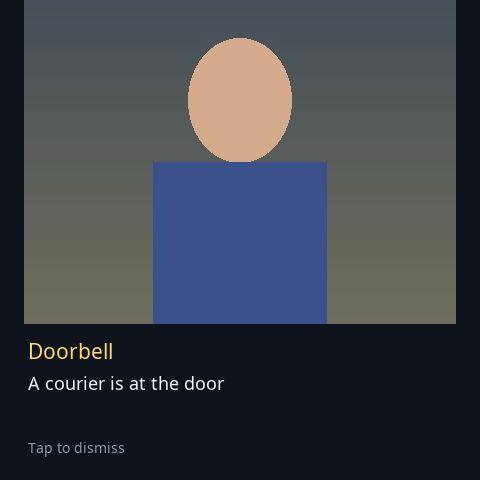
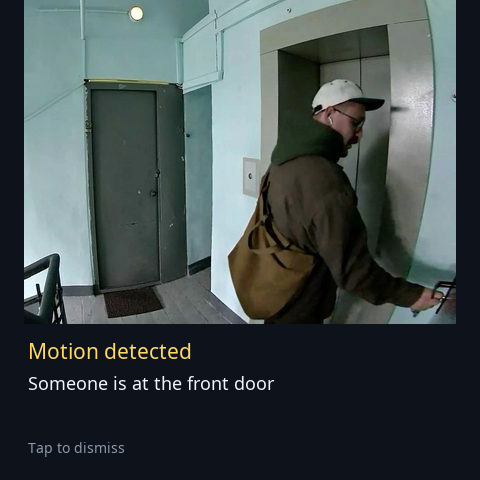
S1E Panel: documentation and interactive demo

diff --git a/docs/ru/index.html b/docs/ru/index.html
@@ -114,7 +114,7 @@ footer{margin:72px 0 32px;color:var(--muted);font-size:14px;border-top:1px solid
   <div class="shots">
     <figure><img src="../assets/ru/saver-rain.gif" width="480" height="480" loading="lazy" alt="Заставка «Живая погода» с анимированным дождём"><figcaption>Заставка «Живая погода»</figcaption></figure>
     <figure><img src="../assets/ru/screen-saver-pulse.png" width="480" height="480" loading="lazy" alt="Заставка «Пульс дома» с шестью показателями"><figcaption>«Пульс дома»</figcaption></figure>
-    <figure><img src="../assets/ru/screen-notification-photo.png" width="480" height="480" loading="lazy" alt="Уведомление о звонке в дверь со снимком камеры"><figcaption>Снимок с дверной камеры из Home Assistant</figcaption></figure>
+    <figure><img src="../assets/ru/screen-notification-photo.png" width="480" height="480" loading="lazy" alt="Уведомление о движении со снимком дверной камеры"><figcaption>Снимок с дверной камеры из Home Assistant</figcaption></figure>
     <figure><img src="../assets/ru/screen-notification-weather.png" width="480" height="480" loading="lazy" alt="Сообщение «Спокойной ночи» с дождливой погодой на завтра"><figcaption>Погодное сообщение</figcaption></figure>
   </div>
 </section>

diff --git a/docs/index.html b/docs/index.html
@@ -113,7 +113,7 @@ footer{margin:72px 0 32px;color:var(--muted);font-size:14px;border-top:1px solid
   <div class="shots">
     <figure><img src="assets/en/saver-rain.gif" width="480" height="480" loading="lazy" alt="Living weather screensaver with animated rain"><figcaption>Living weather screensaver</figcaption></figure>
     <figure><img src="assets/en/screen-saver-pulse.png" width="480" height="480" loading="lazy" alt="Home essentials screensaver with six home readings"><figcaption>Home essentials</figcaption></figure>
-    <figure><img src="assets/en/screen-notification-photo.png" width="480" height="480" loading="lazy" alt="Doorbell notification with a camera photo"><figcaption>Doorbell photo from Home Assistant</figcaption></figure>
+    <figure><img src="assets/en/screen-notification-photo.png" width="480" height="480" loading="lazy" alt="Motion notification with a door camera photo"><figcaption>Door camera photo from Home Assistant</figcaption></figure>
     <figure><img src="assets/en/screen-notification-weather.png" width="480" height="480" loading="lazy" alt="Good night message with tomorrow's rainy weather"><figcaption>Weather message</figcaption></figure>
   </div>
 </section>

diff --git a/README.md b/README.md
@@ -48,7 +48,7 @@ More about the demos and their limits: [docs/cards.md](docs/cards.md#interactive
 <p align="center">
   <img src="docs/assets/en/saver-rain.gif" alt="Living weather screensaver: animated rain over the clock, the forecast and the home readings" width="320">
   &nbsp;
-  <img src="docs/assets/en/screen-notification-photo.png" alt="Doorbell notification with a camera photo from Home Assistant" width="320">
+  <img src="docs/assets/en/screen-notification-photo.png" alt="Motion notification with a door camera photo from Home Assistant" width="320">
 </p>
 
 ## Supported cards
